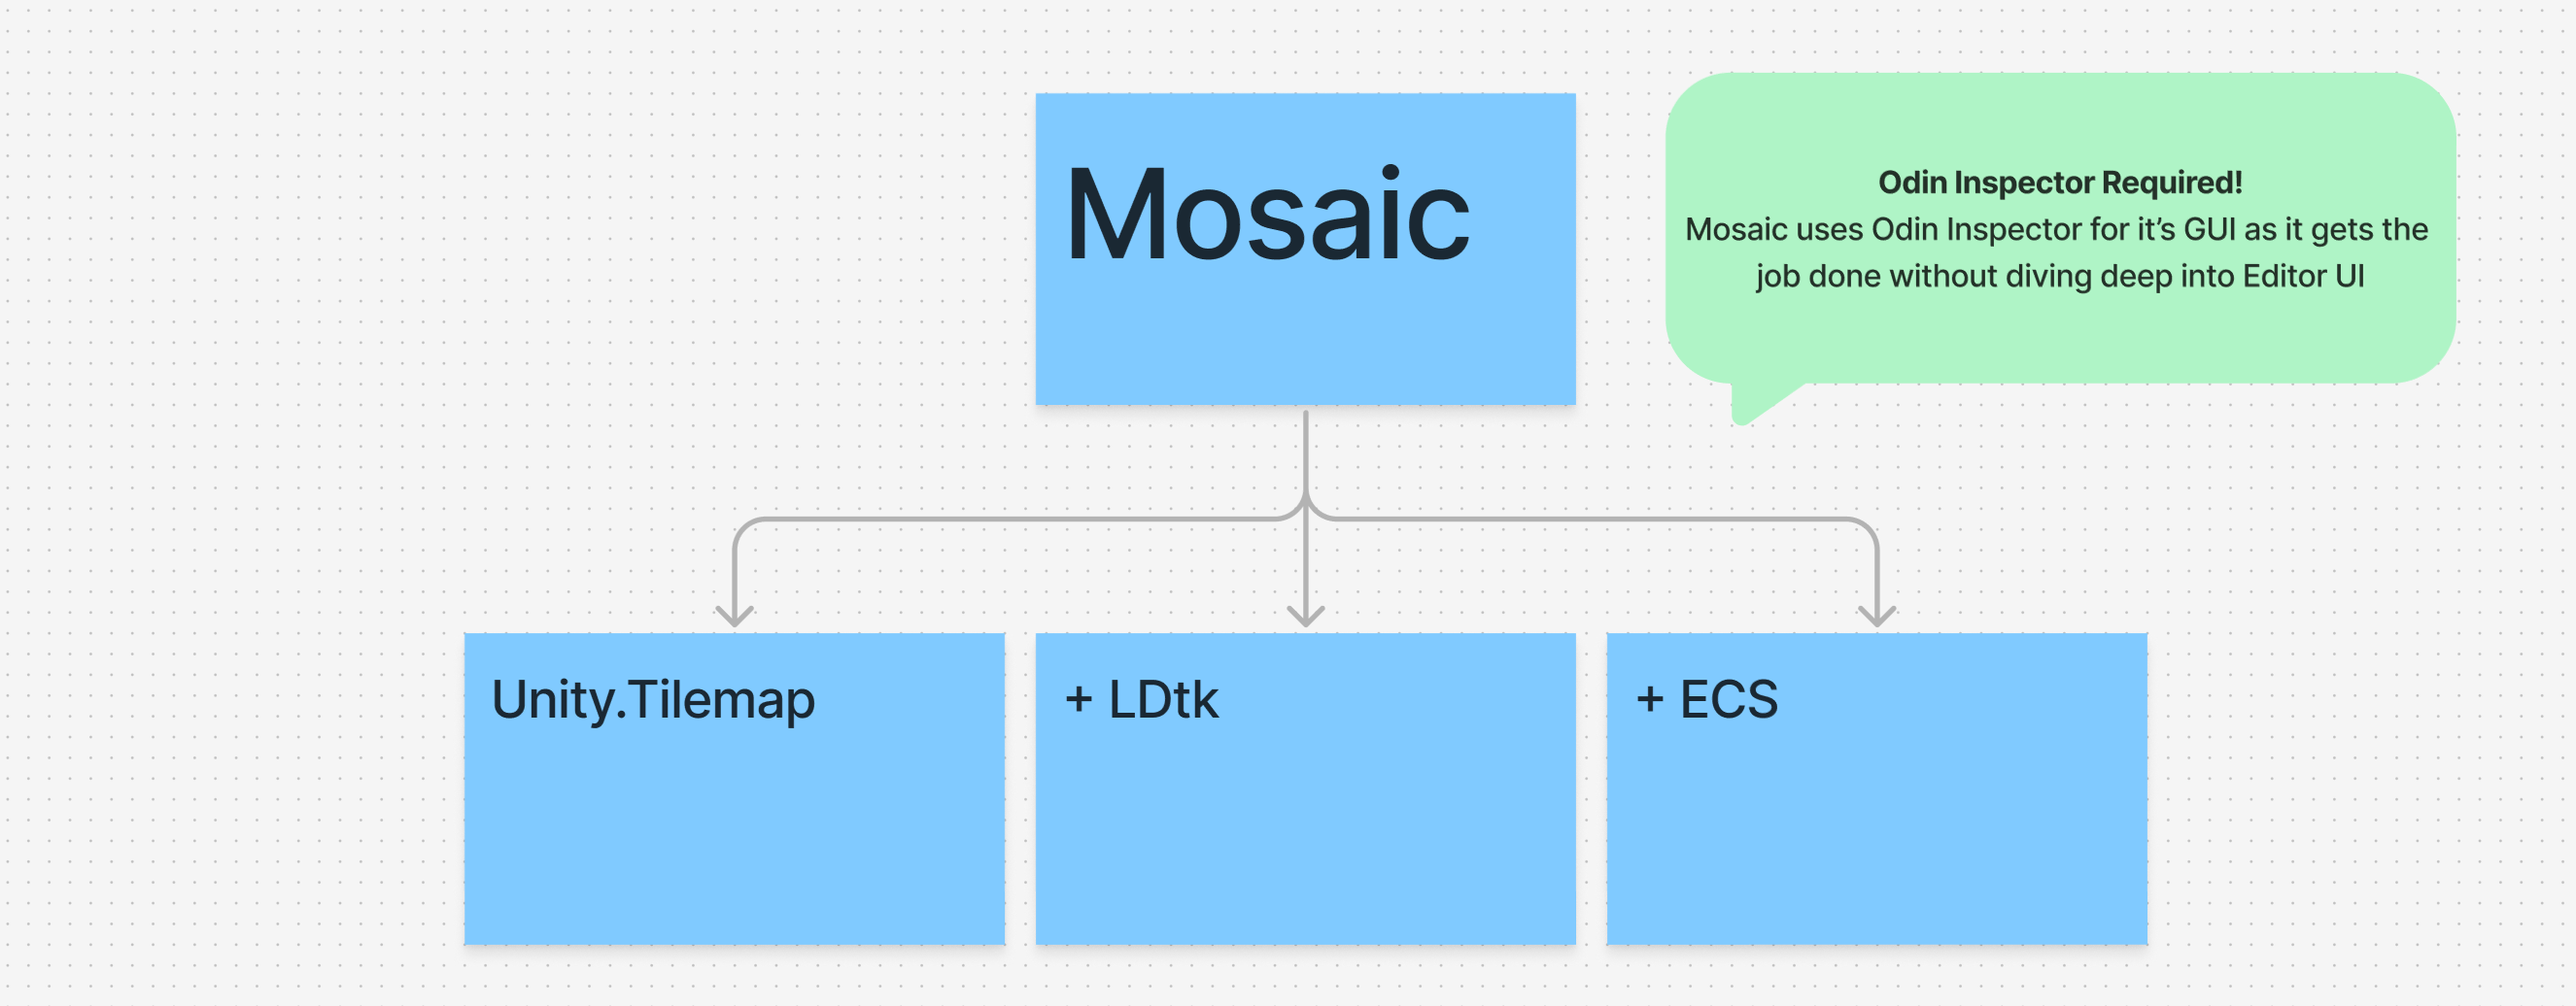
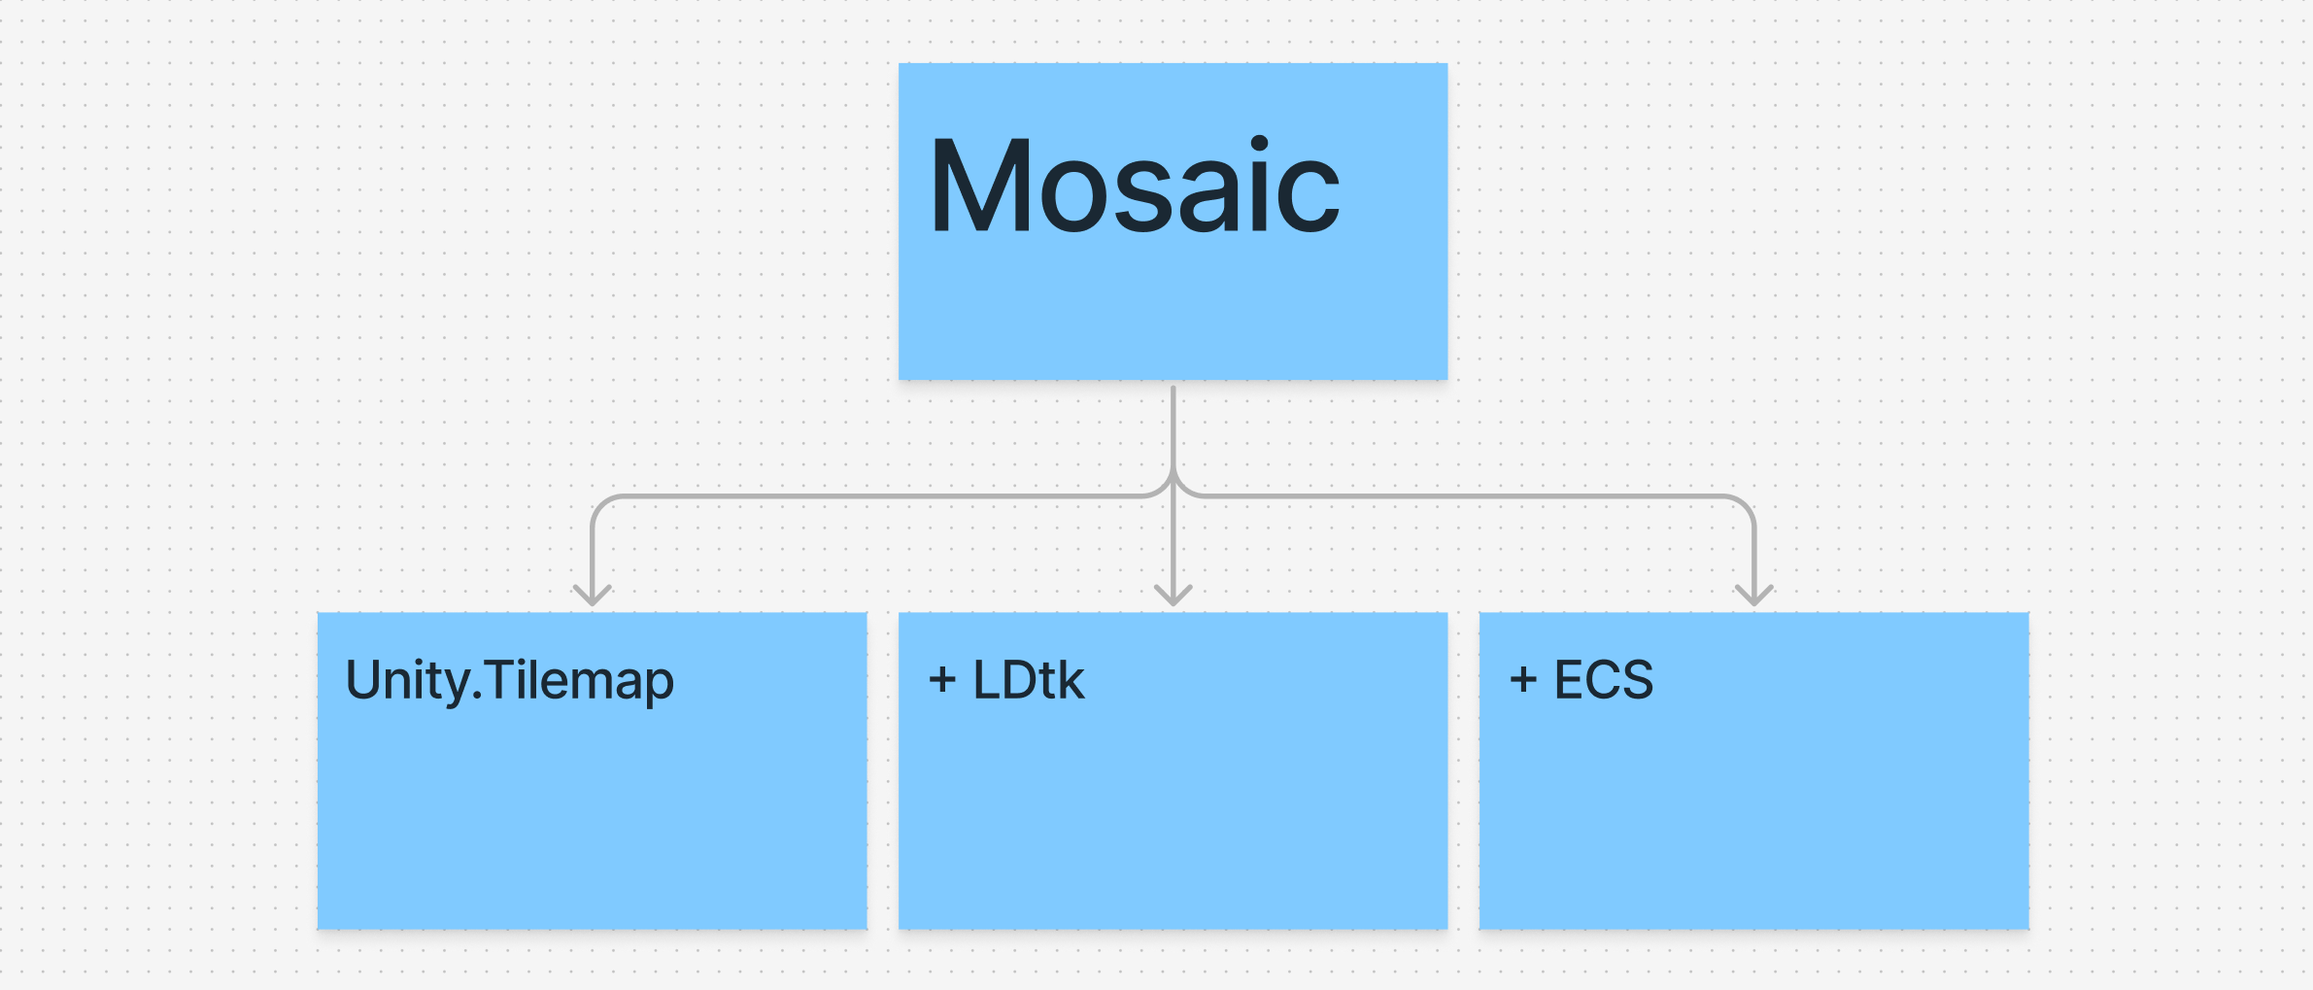
Update README.md

Changed region(s): [[0.373, 0.0608, 0.9635, 0.4259], [0.1243, 0.4868, 0.9013, 0.9431]]

diff --git a/README.md b/README.md
@@ -3,38 +3,38 @@ Mosaic is a Next Gen Runtime Unity Tilemap solution, heavily inspired by LDtk, b
 
 ![Mosaic](Documentation~/Images/Mosaic.png)
 
-| Feature            | Unity.Tilemap                                                                 | Mosaic                                                                                                                                                                                                                                                                                                                     |
-|--------------------|-------------------------------------------------------------------------------|----------------------------------------------------------------------------------------------------------------------------------------------------------------------------------------------------------------------------------------------------------------------------------------------------------------------------|
-| Rule engine        | RuleTile: very shallow support, requires custom code to achieve basic results | IntGrid: inspired by LDtk, one of the most powerful and feature rich rule engines                                                                                                                                                                                                                                          |
-| Dual-Grid System   | No support                                                                    | A simple toggle on the `IntGridDefinition` to enable Dual-Grid system. Rule Matrix editor will be adjusted accordingly                                                                                                                                                                                                     |
-| Terrain            | No option to merge multiple Tilemap layers into a single mesh using a shader  | `TilemapTerrainAuthoring` allows you to have unlimited number of `IntGrid` with a limited number of them being blended using a dedicated shader                                                                                                                                                                            |
-| GUI                | Poor GUI experience with RuleTile custom editor                               | Custom GUI made with [Odin Inspector](https://assetstore.unity.com/packages/tools/utilities/odin-inspector-and-serializer-89041?srsltid=AfmBOop97OyTTYiuIIGN0oQkSMLd0P3xSmw8NEuDFQQLFEFcz3blWS6p), with a separate EditorWindow to make GUI even more clear and concise. Custom rule pattern matrix controls and rendering |
-| Performance        | Main thread only, really inefficient when using complex rule patterns         | 99% 'bursted' and 'jobified'. Main thread only applies mesh changes. All of the systems are optimized to the edge                                                                                                                                                                                                          | 
-| Allocations        | Huge GC spikes when using RuleTile                                            | 0 GC allocations                                                                                                                                                                                                                                                                                                           |
-| Random             | No option to set a seed                                                       | `SetGlobalSeed()` and 100% deterministic                                                                                                                                                                                                                                                                                   |
-| World editing      | Tilemap saves changes in the editor                                           | `TilemapAuthoring` does not save editor data for now. However, adding such feature is trivial as all the data is stored as `IntGridValue`s, which is just a wrapper for `short`                                                                                                                                            |
-| Grid types         | Rectangular, hexagonal and isometric                                          | Only rectangular                                                                                                                                                                                                                                                                                                           |
-| Object rule result | Instantiates GameObjects, which is really expensive. A lot of GC allocations  | Instantiates Entities, which is really cheap. No GC allocations                                                                                                                                                                                                                                                            |                  
-| Rendering Pipeline | Internal `SpriteRenderer` based rendering path                                | `Entities.Graphics` based rendering with every `IntGridAuthoring` being a separate entity with a mesh. Utilizing `RuntimeMaterial` to create materials at runtime with different main textures as needed                                                                                                                   |                                                                                                                                                                                                                               
-| 2D Rendering       | Supports both 3D and 2D rendering with SortingLayers                          | Because `SpriteRenderer` rendering path is internal, Mosaic only works with 3D based rendering                                                                                                                                                                                                                             |
+| Feature            | Unity.Tilemap                                                                 | Mosaic                                                                                                                                                                                                   |
+|--------------------|-------------------------------------------------------------------------------|----------------------------------------------------------------------------------------------------------------------------------------------------------------------------------------------------------|
+| Rule engine        | RuleTile: very shallow support, requires custom code to achieve basic results | IntGrid: inspired by LDtk, one of the most powerful and feature rich rule engines                                                                                                                        |
+| Dual-Grid System   | No support                                                                    | A simple toggle on the `IntGridDefinition` to enable Dual-Grid system. Rule Matrix editor will be adjusted accordingly                                                                                   |
+| Terrain            | No option to merge multiple Tilemap layers into a single mesh using a shader  | `TilemapTerrainAuthoring` allows you to have unlimited number of `IntGrid` with a limited number of them being blended using a dedicated shader                                                          |
+| GUI                | Poor GUI experience with RuleTile custom editor                               | Custom GUI made with UI Toolkit, with a separate EditorWindow to make GUI even more clear and concise. Custom rule pattern matrix controls and rendering                                                 |
+| Performance        | Main thread only, really inefficient when using complex rule patterns         | 99% 'bursted' and 'jobified'. Main thread only applies mesh changes. All of the systems are optimized to the edge                                                                                        | 
+| Allocations        | Huge GC spikes when using RuleTile                                            | 0 GC allocations                                                                                                                                                                                         |
+| Random             | No option to set a seed                                                       | `SetGlobalSeed()` and 100% deterministic                                                                                                                                                                 |
+| World editing      | Tilemap saves changes in the editor                                           | `TilemapAuthoring` does not save editor data for now. However, adding such feature is trivial as all the data is stored as `IntGridValue`s, which is just a wrapper for `short`                          |
+| Grid types         | Rectangular, hexagonal and isometric                                          | Only rectangular                                                                                                                                                                                         |
+| Object rule result | Instantiates GameObjects, which is really expensive. A lot of GC allocations  | Instantiates Entities, which is really cheap. No GC allocations                                                                                                                                          |                  
+| Rendering Pipeline | Internal `SpriteRenderer` based rendering path                                | `Entities.Graphics` based rendering with every `IntGridAuthoring` being a separate entity with a mesh. Utilizing `RuntimeMaterial` to create materials at runtime with different main textures as needed |                                                                                                                                                                                                                               
+| 2D Rendering       | Supports both 3D and 2D rendering with SortingLayers                          | Because `SpriteRenderer` rendering path is internal, Mosaic only works with 3D based rendering                                                                                                           |
 
 ## Changelog
-[1.4.0] - 2025-08-21 is out! 
+[2.0.0] - 2025-09-12 is out! 
 
-### Added
-**Tilemap Terrain**. A special terrain that merges multiple `IntGrid` layers into a single mesh using a custom TerrainShader and blending logic.
+### Removed
+* Dependency on OdinInspector
 
 Full changelog can be found [here](CHANGELOG.md)
 
 ## Installation
 Add these packages using git urls in a package manager:
-1. KrasCore: https://github.com/Fire-Aalt/KrasCore.git
-2. KrasCore.Mosaic: https://github.com/Fire-Aalt/KrasCore-Mosaic.git
+1. BovineLabs.Core: https://gitlab.com/tertle/com.bovinelabs.core.git (only utilities are used)
+2. KrasCore: https://github.com/Fire-Aalt/KrasCore.git
+3. KrasCore.Mosaic: https://github.com/Fire-Aalt/KrasCore-Mosaic.git
 
 Add these packages for optional support for runtime `IntGrid` debugging: 
-1. BovineLabs.Core: https://gitlab.com/tertle/com.bovinelabs.core.git
-2. BovineLabs.Anchor: https://gitlab.com/tertle/com.bovinelabs.anchor.git
-3. BovineLabs.Quill: https://github.com/tertle/com.bovinelabs.quill
+1. BovineLabs.Anchor: https://gitlab.com/tertle/com.bovinelabs.anchor.git
+2. BovineLabs.Quill: https://github.com/tertle/com.bovinelabs.quill
 
 ## Workflow
 ### Editor (Single Grid workflow)
@@ -46,11 +46,11 @@ Create IntGrid using "Create/Mosaic/IntGrid". This is how we can configure it:
 *You can add a texture to be displayed instead of a color. Use create RuleGroup button to quickly create RuleGroup ScriptableObject*
 
 Open RuleGroup ScriptableObject and add some rules to it like this:
-![RuleGroup](Documentation~/Images/RuleGroup.png)
+![RuleGroup](Documentation~/Images/RuleGroup.gif)
 *Every parameter has a tooltip*
 
 To edit the rule pattern, click on the matrix of the rule matrix preview of the rule. This window will pop up:
-![Rule](Documentation~/Images/Rule.png)
+![Rule](Documentation~/Images/RuleSingleGrid.png)
 Here you can modify rule matrix pattern and add or remove results. All the results are weighted, where more weight means more chance to be selected. You can have both sprite and entity to be rendered/spawned.
 
 Next add `GridAuthoring` component to a GameObject in a SubScene and add a `TilemapAuthoring` as a child to Grid. Configure them as needed.
@@ -59,7 +59,7 @@ Next add `GridAuthoring` component to a GameObject in a SubScene and add a `Tile
 
 For Dual-Grid to work, a "Use Dual Grid" checkbox has to be ticked at the top of `IntGridDefinition`. This will change the serialized IntGriMatrix to Dual-Grid one and the authoring inspectors will also be changed for all the RuleGroups assign to that `IntGridDefinition`.
 
-![DualGrid](Documentation~/Images/DualGrid.png)
+![DualGrid](Documentation~/Images/DualGrid.gif)
 
 ### Tilemap Terrain
 Works the same as having multiple `TilemapAuthoring` separately, but instead of multiple meshes produces only 1 using a custom shader for blending. 

diff --git a/CHANGELOG.md b/CHANGELOG.md
@@ -1,4 +1,20 @@
 # Changelog
+## [2.0.0] - 2025-09-12
+
+### Removed
+* Dependency on OdinInspector
+
+### Added
+* Custom Editor Inspectors for `IntGridDefinition`, `RuleGroup` and `IntGridMatrixWindow` using UI Toolkit
+* Automatic data migration from `RuleTransform` into `Transformation`
+
+### Changed
+* Greatly improved performance of editor inspectors for `IntGridDefinition`, `RuleGroup` and `IntGridMatrixWindow`
+* Visually improved aforementioned editor inspectors
+
+### Fixed
+* Several bugs related to incorrect saving of serialized data in `IntGridMatrixWindow`
+
 ## [1.4.0] - 2025-08-21
 
 ### Breaking Changes
